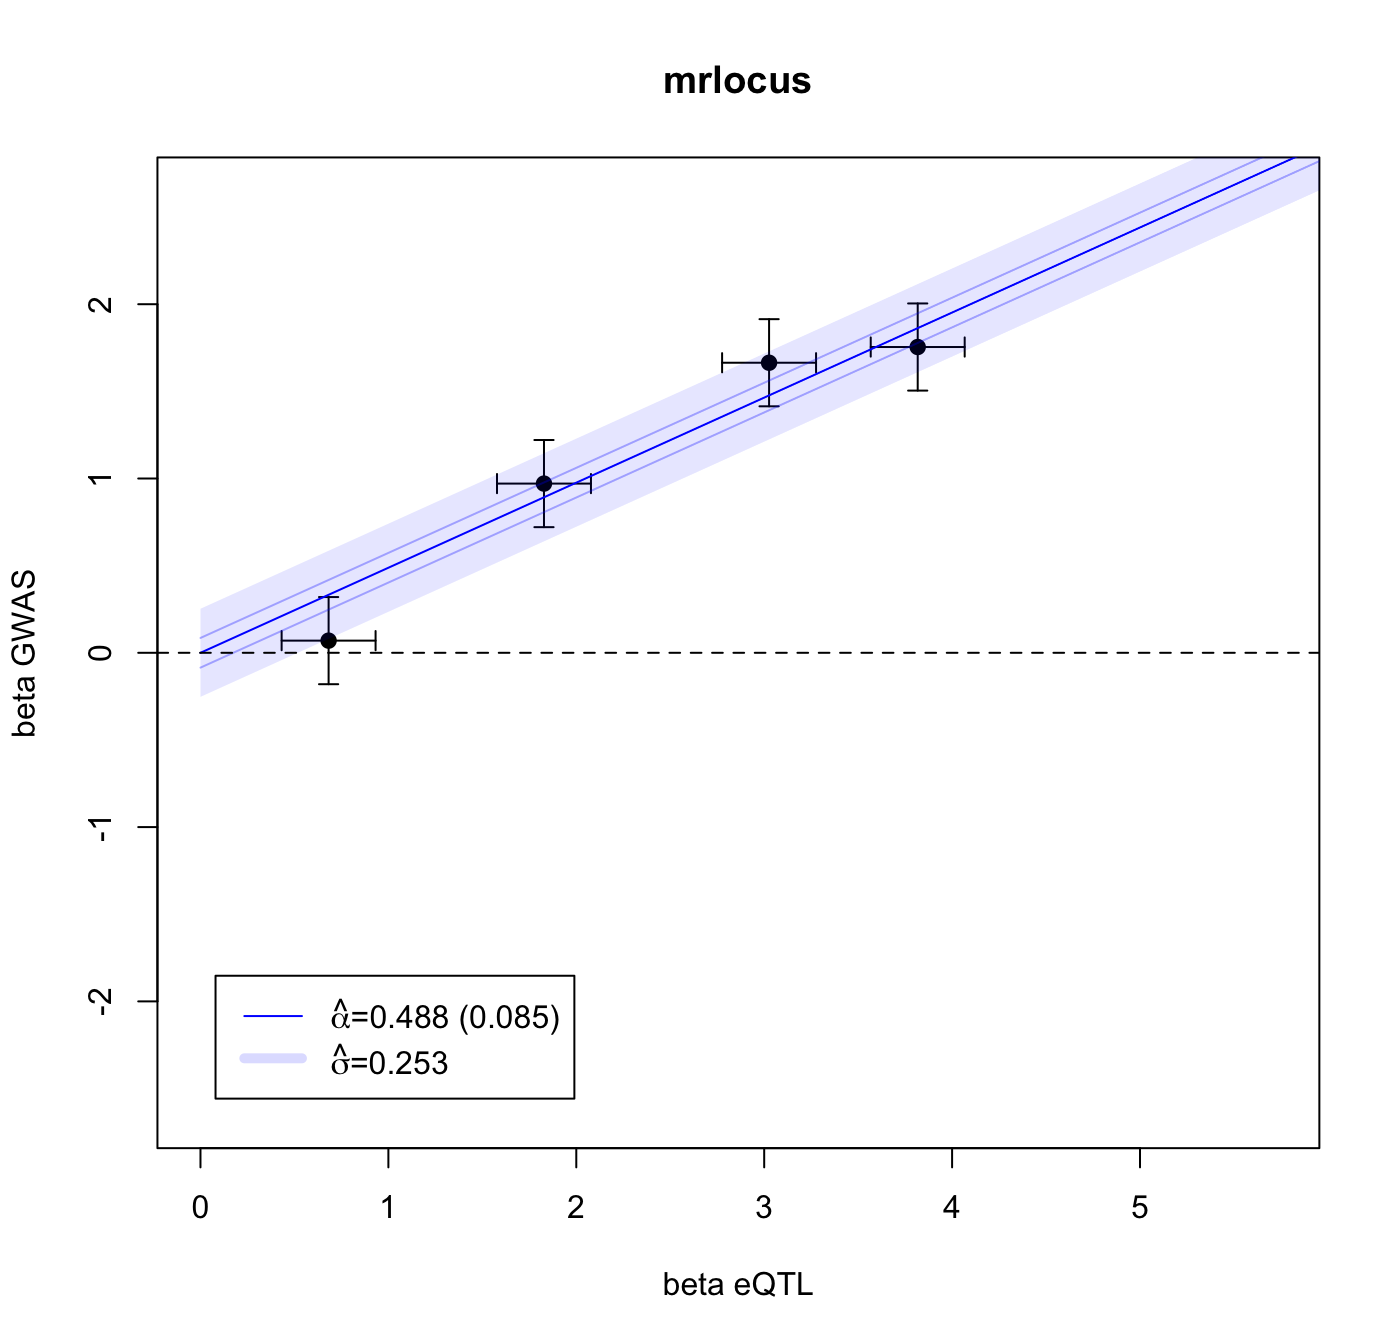
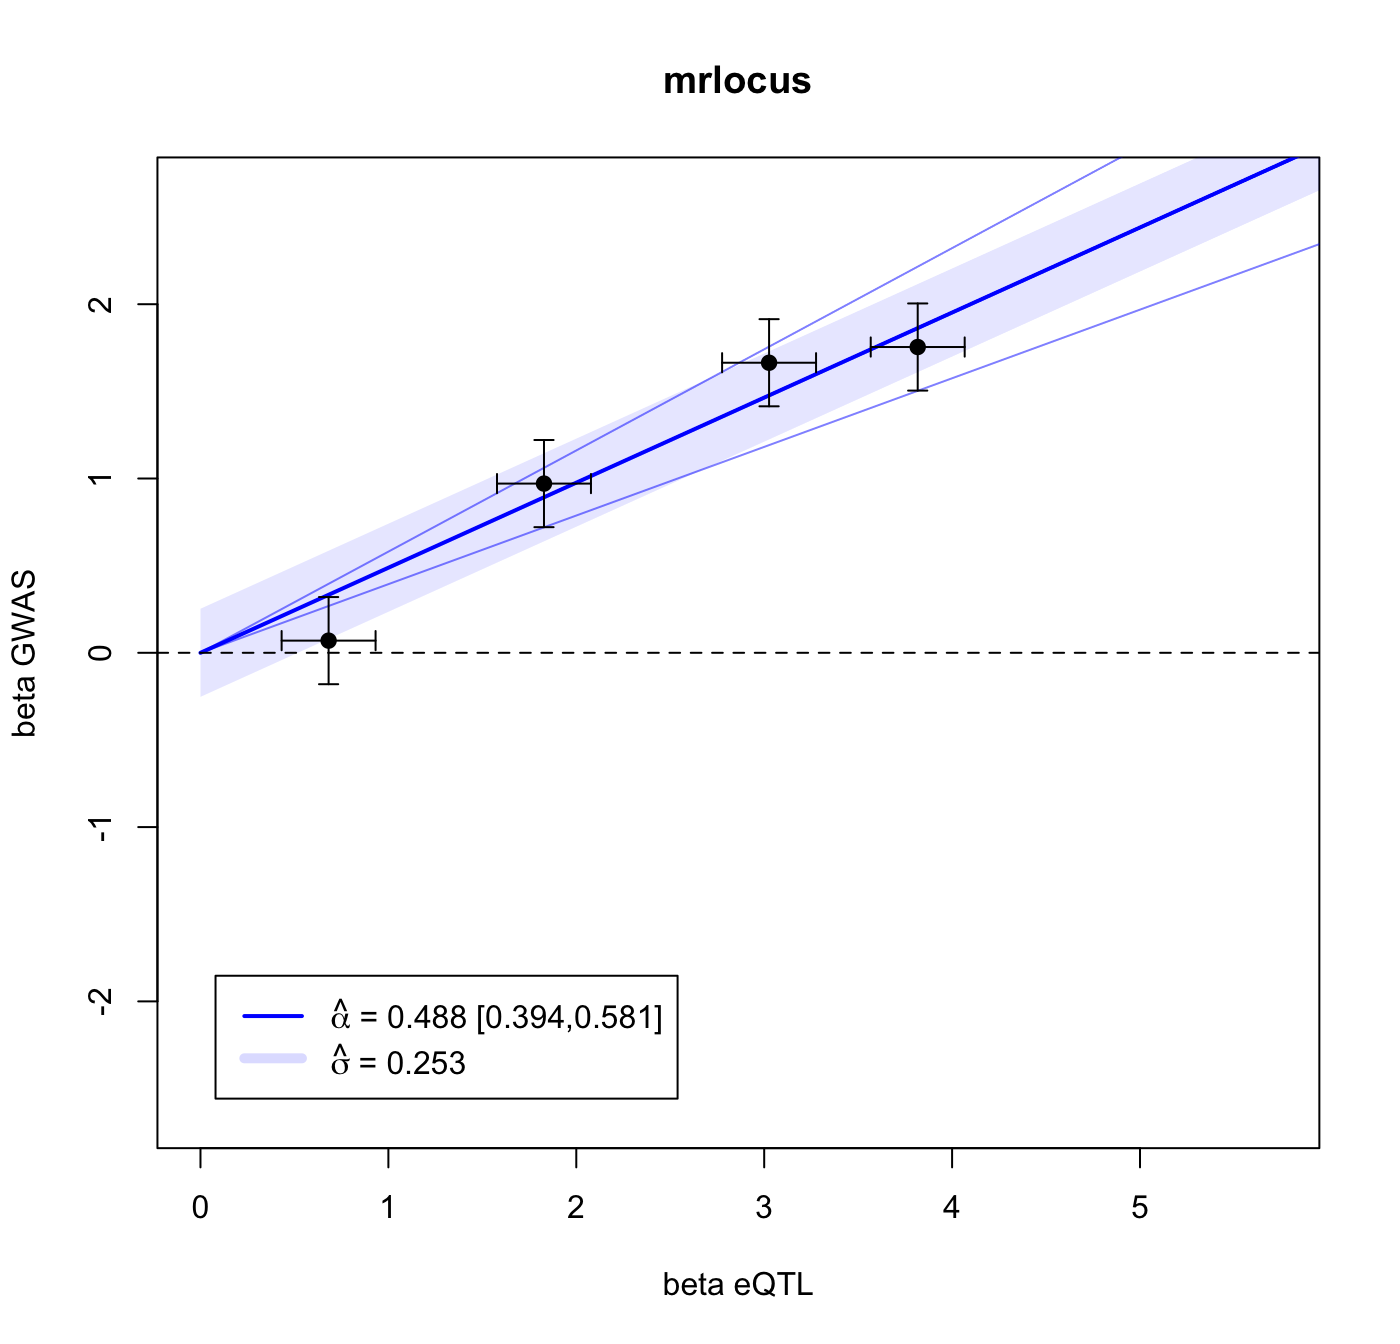
fix the plot

diff --git a/docs/articles/mrlocus.html b/docs/articles/mrlocus.html
@@ -123,16 +123,17 @@
 ## alpha 0.488   0.001 0.085 0.318 0.443 0.495 0.530 0.652  4496 1.002
 ## sigma 0.253   0.020 0.245 0.030 0.076 0.180 0.341 0.929   156 1.020
 ## 
-## Samples were drawn using NUTS(diag_e) at Fri Jul  3 15:19:13 2020.
+## Samples were drawn using NUTS(diag_e) at Fri Jul  3 20:05:19 2020.
 ## For each parameter, n_eff is a crude measure of effective sample size,
 ## and Rhat is the potential scale reduction factor on split chains (at 
 ## convergence, Rhat=1).</code></pre>
 <div class="sourceCode" id="cb15"><html><body><pre class="r"><span class="fu"><a href="../reference/plotMrlocus.html">plotMrlocus</a></span>(<span class="no">res</span>, <span class="kw">main</span><span class="kw">=</span><span class="st">"mrlocus"</span>)</pre></body></html></div>
+<pre><code>## plotting a 10%-90% interval</code></pre>
 <p><img src="mrlocus_files/figure-html/mrlocus-1.png" width="700"></p>
 <div id="session-info" class="section level1">
 <h1 class="hasAnchor">
 <a href="#session-info" class="anchor"></a>Session info</h1>
-<div class="sourceCode" id="cb16"><html><body><pre class="r"><span class="fu"><a href="https://rdrr.io/r/utils/sessionInfo.html">sessionInfo</a></span>()</pre></body></html></div>
+<div class="sourceCode" id="cb17"><html><body><pre class="r"><span class="fu"><a href="https://rdrr.io/r/utils/sessionInfo.html">sessionInfo</a></span>()</pre></body></html></div>
 <pre><code>## R version 4.0.0 (2020-04-24)
 ## Platform: x86_64-apple-darwin17.0 (64-bit)
 ## Running under: macOS Catalina 10.15.5
